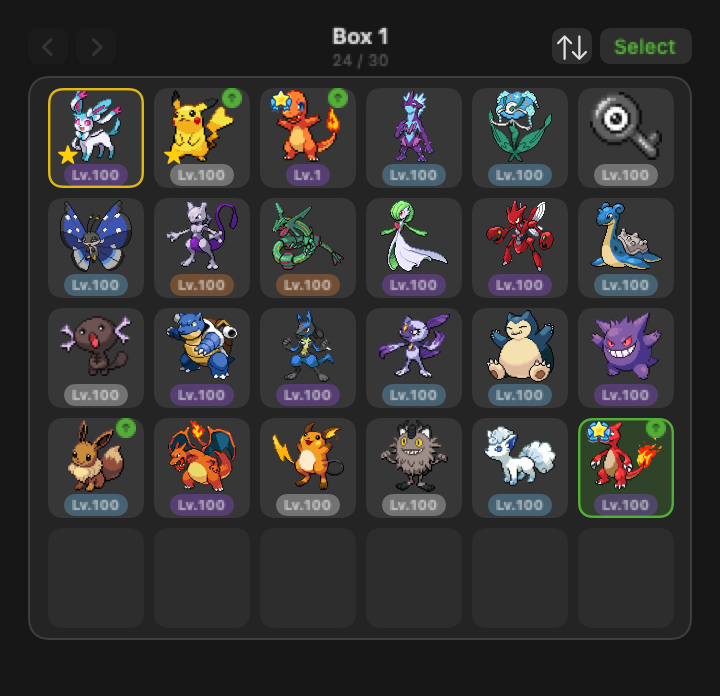
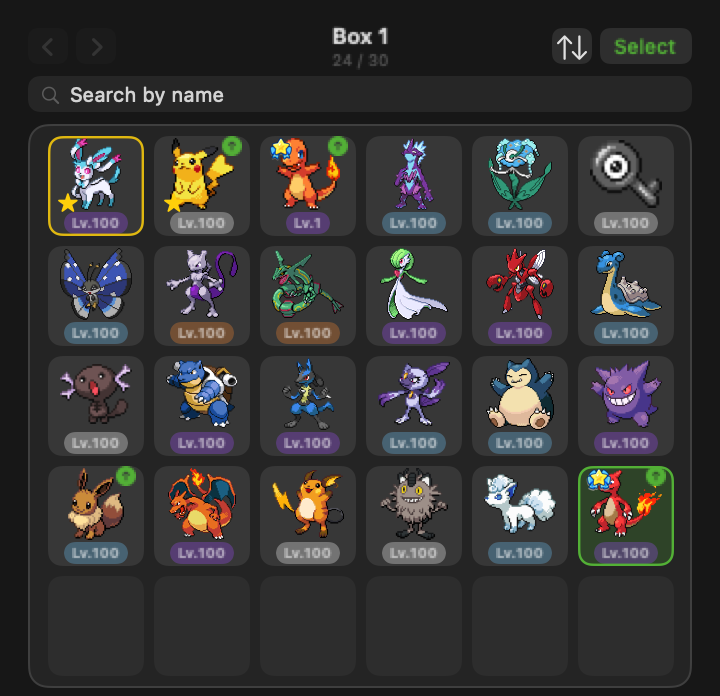
feat: search the Box by name
Finding one Pokémon in a full Box meant paging through thirty-slot pages
by eye. A search field now filters what the grid shows.

It matches the name the cell actually displays, so the form and region
prefixes come along — typing Galar brings up that whole set. Korean
initial consonants work too: ㄴㅇ finds 나옹. That mode turns on only when
the query is entirely consonant jamo, which keeps the rule predictable;
a mixed query stays a plain substring match. The species number matches
as well, which also covers the window where a name has not loaded yet and
the cell reads #25.

A disguised Ditto is not findable by the species it pretends to be. Its
cell shows ??? and so does the search, because the filter matches on the
displayed name rather than the underlying species. That falls out of the
design, but a test pins it — otherwise someone could reasonably decide to
match the real species and quietly leak the surprise.

Changing the query clears the bulk selection. Without that, a Pokémon
picked before the search stays picked while hidden, and a release could
carry off something not on screen — the one irreversible action here, so
what you see has to be what you send.

Searching is a view filter and never touches the store, unlike tidying,
which really does reorder the box.

Screenshots regenerated for the three Box captures.

Changed region(s): [[0.0611, 0.1207, 0.9472, 0.8147], [0.9472, 0.9052, 0.9778, 0.9353], [0.0306, 0.9052, 0.0611, 0.9353]]

diff --git a/Tests/PokeDexBarTests/BoxSearchTests.swift b/Tests/PokeDexBarTests/BoxSearchTests.swift
@@ -1,0 +1,126 @@
+import XCTest
+@testable import PokeDexBar
+
+/// 박스 이름 검색 — 판정은 순수 함수라 직접 물어본다.
+final class BoxSearchTests: XCTestCase {
+
+    // MARK: 부분 일치
+
+    func testAPartOfTheNameFinds() {
+        XCTAssertTrue(BoxSearch.matches(query: "나옹", name: "나옹", speciesID: 52))
+        XCTAssertTrue(BoxSearch.matches(query: "옹", name: "나옹", speciesID: 52))
+        XCTAssertFalse(BoxSearch.matches(query: "피카", name: "나옹", speciesID: 52))
+    }
+
+    /// **화면에 보이는 그 이름에 맞춘다** — 폼·지방 접두사가 붙은 채로. "갈라르"만 쳐도 그 무리가 다 나온다.
+    func testTheFormAndRegionPrefixAreSearchable() {
+        XCTAssertTrue(BoxSearch.matches(query: "갈라르", name: "갈라르 나옹", speciesID: 52))
+        XCTAssertTrue(BoxSearch.matches(query: "메가", name: "메가 거북왕", speciesID: 9))
+    }
+
+    func testEnglishIgnoresCase() {
+        XCTAssertTrue(BoxSearch.matches(query: "pika", name: "Pikachu", speciesID: 25))
+        XCTAssertTrue(BoxSearch.matches(query: "PIKA", name: "Pikachu", speciesID: 25))
+    }
+
+    /// 빈 질의는 아무것도 안 거른다 — 검색을 지우면 박스가 그대로 돌아와야 한다.
+    func testAnEmptyQueryPassesEverything() {
+        XCTAssertTrue(BoxSearch.matches(query: "", name: "나옹", speciesID: 52))
+        XCTAssertTrue(BoxSearch.matches(query: "   ", name: "나옹", speciesID: 52))
+    }
+
+    // MARK: 초성
+
+    /// "ㄴㅇ" → 나옹. 한국어 사용자가 당연히 기대하는 동작이다.
+    func testInitialConsonantsFind() {
+        XCTAssertTrue(BoxSearch.matches(query: "ㄴㅇ", name: "나옹", speciesID: 52))
+        XCTAssertTrue(BoxSearch.matches(query: "ㄱㅂㅇ", name: "거북왕", speciesID: 9))
+        XCTAssertTrue(BoxSearch.matches(query: "ㅂㅇ", name: "거북왕", speciesID: 9), "가운데부터도 맞아야 한다")
+        XCTAssertFalse(BoxSearch.matches(query: "ㄱㅂㅇ", name: "나옹", speciesID: 52))
+    }
+
+    func testInitialsAreExtractedFromEverySyllable() {
+        XCTAssertEqual(BoxSearch.initials(of: "나옹"), "ㄴㅇ")
+        XCTAssertEqual(BoxSearch.initials(of: "거북왕"), "ㄱㅂㅇ")
+        XCTAssertEqual(BoxSearch.initials(of: "갈라르 나옹"), "ㄱㄹㄹ ㄴㅇ")
+        // 한글이 아닌 글자는 그대로 남는다 — 섞인 이름에서 자리가 밀리지 않게.
+        XCTAssertEqual(BoxSearch.initials(of: "Pikachu"), "Pikachu")
+    }
+
+    /// **자음만인 질의일 때만** 초성 모드다. 규칙이 예측 가능해야 한다 — 섞인 질의는 일반 매치다.
+    func testOnlyAnAllConsonantQueryUsesInitials() {
+        XCTAssertTrue(BoxSearch.isInitialQuery("ㄴㅇ"))
+        XCTAssertTrue(BoxSearch.isInitialQuery("ㄱ"))
+        XCTAssertFalse(BoxSearch.isInitialQuery("나옹"))
+        XCTAssertFalse(BoxSearch.isInitialQuery("ㄴ옹"))
+        XCTAssertFalse(BoxSearch.isInitialQuery("pika"))
+        XCTAssertFalse(BoxSearch.isInitialQuery(""))
+    }
+
+    /// 모음 자모는 초성이 아니다 — "ㅏ" 로 초성 검색이 열리면 안 된다.
+    func testVowelJamoIsNotAnInitialQuery() {
+        XCTAssertFalse(BoxSearch.isInitialQuery("ㅏ"))
+        XCTAssertFalse(BoxSearch.isInitialQuery("ㅗㅜ"))
+    }
+
+    // MARK: 번호
+
+    func testTheSpeciesNumberFinds() {
+        XCTAssertTrue(BoxSearch.matches(query: "25", name: "피카츄", speciesID: 25))
+        // 이름을 아직 못 받아 "#25" 로 떠 있는 동안에도 같은 질의가 맞는다.
+        XCTAssertTrue(BoxSearch.matches(query: "25", name: "#25", speciesID: 25))
+        XCTAssertFalse(BoxSearch.matches(query: "26", name: "피카츄", speciesID: 25))
+    }
+
+    // MARK: 위장
+
+    /// **위장한 메타몽이 위장한 종 이름으로 찾히면 정체가 검색창으로 샌다.** 화면이 "???" 를
+    /// 보여주는 동안에는 검색도 "???" 로만 걸려야 한다. 이름 판정이 `displayName` 을 그대로
+    /// 받으므로 이 성질은 공짜로 따라오지만, 누가 "종 이름으로도 찾게 하자"고 고칠 수 있어 못 박는다.
+    func testADisguisedDittoIsNotFoundByTheSpeciesItPretendsToBe() {
+        let shown = Individual.unknownName
+        XCTAssertFalse(BoxSearch.matches(query: "캐터피", name: shown, speciesID: 10))
+        XCTAssertFalse(BoxSearch.matches(query: "ㅋㅌㅍ", name: shown, speciesID: 10))
+        XCTAssertTrue(BoxSearch.matches(query: shown, name: shown, speciesID: 10))
+    }
+
+    // MARK: 화면 배선
+
+    /// **검색을 바꾸면 담아 둔 선택을 비운다.** 안 그러면 검색으로 가려진 개체가 담긴 채로 남아,
+    /// 화면에 보이지도 않는 아이가 일괄 보내기에 딸려 나간다 — 방출은 되돌릴 수 없는 동작이라
+    /// "보이는 것이 곧 보낼 것"이 지켜져야 한다.
+    ///
+    /// `@State` 의 `.onChange` 배선이라 xctest 로 재현이 안 된다 — 소스에서 호출 존재를 본다
+    /// (`testTheBackfillIsCalledFromAppLaunchNotOnlyFromAView` 와 같은 방식).
+    func testChangingTheQueryClearsTheBulkSelection() throws {
+        let url = URL(fileURLWithPath: #filePath)
+            .deletingLastPathComponent().deletingLastPathComponent().deletingLastPathComponent()
+            .appendingPathComponent("Sources/PokeDexBar/UI/BoxTabView.swift")
+        let source = try String(contentsOf: url, encoding: .utf8)
+        // 주석을 먼저 걷어낸다 — 통짜 검색은 바로 위 주석의 같은 낱말에 걸려, 코드를 지워도 통과한다.
+        let code = source.split(separator: "\n")
+            .map { $0.contains("//") ? String($0[..<$0.range(of: "//")!.lowerBound]) : String($0) }
+            .joined(separator: "\n")
+        let onChange = try XCTUnwrap(code.range(of: "onChange(of: query)"))
+        let body = String(code[onChange.upperBound...].prefix(200))
+        XCTAssertTrue(body.contains("picked = []"), "검색이 바뀌어도 선택이 안 비워진다")
+        XCTAssertTrue(body.contains("bulkStep = 0"), "확인 단계가 안 되돌려진다")
+    }
+
+    /// 검색은 **보기일 뿐이다** — 저장소를 재배치하는 `sortBox` 와 달리 박스 자체를 안 건드린다.
+    func testSearchDoesNotTouchTheStore() throws {
+        let url = URL(fileURLWithPath: #filePath)
+            .deletingLastPathComponent().deletingLastPathComponent().deletingLastPathComponent()
+            .appendingPathComponent("Sources/PokeDexBar/UI/BoxTabView.swift")
+        let code = try String(contentsOf: url, encoding: .utf8)
+        let visible = try XCTUnwrap(code.range(of: "private var visibleBox"))
+        let body = String(code[visible.upperBound...].prefix(400))
+        XCTAssertFalse(body.contains("store.mutate"), "검색이 저장소를 고친다")
+        XCTAssertFalse(body.contains("sortBox"), "검색이 박스를 재배치한다")
+    }
+
+    /// 대조군 — 위장이 아닌 개체는 종 이름으로 정상적으로 찾힌다.
+    func testAnUndisguisedPokemonIsFoundNormally() {
+        XCTAssertTrue(BoxSearch.matches(query: "캐터피", name: "캐터피", speciesID: 10))
+    }
+}

diff --git a/Sources/PokeDexBar/UI/BoxTabView.swift b/Sources/PokeDexBar/UI/BoxTabView.swift
@@ -128,6 +128,9 @@ struct BoxTabView: View {
     private let columns = Array(repeating: GridItem(.fixed(48), spacing: 5),
                                 count: BoxTabView.columnCount)
     @State private var page = 0
+    /// 이름 검색 질의. **보기일 뿐이라 저장소를 안 건드린다** — 정리(`sortBox`)는 박스를 실제로
+    /// 재배치하지만 검색은 보고 있는 동안만 거른다.
+    @State private var query = ""
     /// 선택 모드인가. 모드 밖에서는 칸을 누르면 지금처럼 상세로 간다 —
     /// **되돌릴 수 없는 조작으로 가는 문은 눌러서 연다.**
     @State private var selecting = false
@@ -177,7 +180,29 @@ struct BoxTabView: View {
         .frame(height: selecting ? Self.selectingHeight : Self.baseHeight, alignment: .top)
     }
 
-    private var pageCount: Int { Self.pageCount(forBoxCount: store.state.box.count) }
+    /// 검색에 걸린 개체들. 질의가 비면 박스 전체다.
+    ///
+    /// **맞추는 값은 화면에 보이는 그 이름**(`displayName`)이다 — 종 이름이 아니라 폼·지방
+    /// 접두사가 붙은 것. 그래서 "갈라르"만 쳐도 그 무리가 걸리고, 위장 중인 메타몽은 "???" 라
+    /// 위장한 종 이름으로 안 걸린다(걸리면 정체가 검색창으로 샌다).
+    private var visibleBox: [Individual] {
+        guard !query.trimmingCharacters(in: .whitespaces).isEmpty else { return store.state.box }
+        return store.state.box.filter {
+            BoxSearch.matches(query: query, name: displayName($0), speciesID: $0.displaySpeciesID)
+        }
+    }
+
+    private func displayName(_ individual: Individual) -> String {
+        individual.displayName(speciesName: Self.speciesName(individual, in: lines, store.language),
+                               store.language)
+    }
+
+    /// 검색했는데 하나도 안 걸린 상태. 박스가 원래 빈 것과는 다르다.
+    private var noSearchResults: Bool {
+        !query.trimmingCharacters(in: .whitespaces).isEmpty && visibleBox.isEmpty
+    }
+
+    private var pageCount: Int { Self.pageCount(forBoxCount: visibleBox.count) }
     private var currentPage: Int { Self.clampedPage(page, pageCount: pageCount) }
 
     /// 이 상자에 놓인 개체들 — 빈 자리는 nil. 고정 30칸이라 뒤가 비어도 칸은 그린다.
@@ -186,7 +211,7 @@ struct BoxTabView: View {
     /// `store.sortBox(_:)` 로 저장소 자체를 재배치하는 일회성 명령이고, 화면은 그 결과를 그대로
     /// 비출 뿐이다. 여기서 또 정렬하면 정리해도 화면이 안 바뀐 것처럼 보인다.
     private var slots: [Individual?] {
-        let all = store.state.box
+        let all = visibleBox
         let start = currentPage * Self.pageSize
         return (0..<Self.pageSize).map { offset in
             let index = start + offset
@@ -194,9 +219,43 @@ struct BoxTabView: View {
         }
     }
 
+    /// 이름 검색 한 줄. 질의가 바뀌면 **담아 둔 선택을 비운다** — 안 그러면 검색으로 가려진
+    /// 개체가 담긴 채로 남아, 보이지도 않는 아이가 일괄 보내기에 딸려 나간다.
+    private var searchField: some View {
+        HStack(spacing: 4) {
+            Image(systemName: "magnifyingglass")
+                .font(.system(size: 9)).foregroundStyle(.tertiary)
+            TextField(l.boxSearchPlaceholder, text: $query)
+                .textFieldStyle(.plain)
+                .font(.system(size: 10))
+                .onChange(of: query) { _, _ in
+                    picked = []
+                    bulkStep = 0
+                }
+            if !query.isEmpty {
+                Button { query = "" } label: {
+                    Image(systemName: "xmark.circle.fill")
+                        .font(.system(size: 9)).foregroundStyle(.tertiary)
+                }
+                .buttonStyle(.plain)
+            }
+        }
+        .padding(.horizontal, 6).padding(.vertical, 3)
+        .background(Color.secondary.opacity(0.12), in: RoundedRectangle(cornerRadius: 6))
+    }
+
     private var grid: some View {
         VStack(spacing: 6) {
             boxHeader
+            searchField
+            // 검색이 안 맞은 것과 박스가 빈 것은 다른 상태다 — 같은 빈 격자를 보여주면 왜 비었는지
+            // 모른다. 격자는 아예 접는다: 빈 칸 서른 개 아래에 문구만 두면 팝오버만 길어진다.
+            if noSearchResults {
+                Text(l.boxSearchNoResults(query.trimmingCharacters(in: .whitespaces)))
+                    .font(.system(size: 10)).foregroundStyle(.secondary)
+                    .frame(maxWidth: .infinity, alignment: .center)
+                    .padding(.vertical, 40)
+            } else {
             LazyVGrid(columns: columns, spacing: 5) {
                 ForEach(Array(slots.enumerated()), id: \.offset) { _, individual in
                     if let individual {
@@ -237,6 +296,7 @@ struct BoxTabView: View {
             .overlay {
                 RoundedRectangle(cornerRadius: 10)
                     .strokeBorder(Color.secondary.opacity(0.22), lineWidth: 1)
+            }
             }
             if selecting { bulkBar }
             if store.state.box.isEmpty {

diff --git a/Sources/PokeDexBar/Player/BoxSearch.swift b/Sources/PokeDexBar/Player/BoxSearch.swift
@@ -1,0 +1,60 @@
+import Foundation
+
+/// 박스 이름 검색의 판정. **순수 함수라 테스트가 직접 물어본다** — 뷰 안에 묻어 두면
+/// "초성이 맞는가"·"위장이 새지 않는가"를 물어볼 수가 없다.
+///
+/// 검색은 **보기일 뿐이다.** 정리(`PlayerStore.sortBox`)는 저장소를 실제로 재배치하는 명령이지만
+/// 검색은 보고 있는 동안만 거른다 — 그래서 여기에는 상태가 없다.
+enum BoxSearch {
+    /// 한글 초성 19자. 순서가 곧 초성 인덱스다(유니코드 한글 음절의 정의).
+    private static let choseong = Array("ㄱㄲㄴㄷㄸㄹㅁㅂㅃㅅㅆㅇㅈㅉㅊㅋㅌㅍㅎ")
+    private static let syllableBase: UInt32 = 0xAC00
+    private static let syllableEnd: UInt32 = 0xD7A3
+    /// 한 초성이 담당하는 음절 수 — 중성 21 × 종성 28.
+    private static let syllablesPerChoseong: UInt32 = 588
+
+    /// 이 개체가 질의에 걸리나.
+    ///
+    /// - Parameter name: **화면에 보이는 그 이름**(`Individual.displayName`). 종 이름이 아니라
+    ///   폼·지방 접두사가 붙은 표시 이름이라, "갈라르"만 쳐도 그 무리가 걸린다. 위장 중인
+    ///   메타몽은 이 값이 "???" 라 **위장한 종 이름으로는 안 걸린다** — 걸리면 정체가 검색창으로 샌다.
+    static func matches(query: String, name: String, speciesID: Int) -> Bool {
+        let trimmed = query.trimmingCharacters(in: .whitespaces)
+        guard !trimmed.isEmpty else { return true }
+        if isInitialQuery(trimmed) {
+            return initials(of: name).contains(trimmed)
+        }
+        if contains(name, trimmed) { return true }
+        // 번호로도 찾는다 — 이름을 아직 못 받아 "#25" 로 떠 있는 동안에도, 받은 뒤에도 같은
+        // 질의가 통하도록. (이름이 "#25" 일 때는 위 이름 매치로도 걸리지만, 받은 뒤에는 여기뿐이다.)
+        return String(speciesID).contains(trimmed)
+    }
+
+    /// 질의가 **전부 초성 자모**인가. 그럴 때만 초성 모드로 간다 — 섞인 질의("ㄴ옹")까지 받으면
+    /// 규칙이 예측 불가능해지고, 실제로 그렇게 치는 사람도 없다.
+    ///
+    /// 모음 자모(ㅏ·ㅗ)는 초성이 아니다. `choseong` 에 없으므로 자동으로 걸러진다.
+    static func isInitialQuery(_ query: String) -> Bool {
+        let trimmed = query.trimmingCharacters(in: .whitespaces)
+        guard !trimmed.isEmpty else { return false }
+        return trimmed.allSatisfy { choseong.contains($0) }
+    }
+
+    /// 한글 음절을 초성으로 바꾼 문자열. **한글이 아닌 글자는 그대로 남긴다** — 지우면 섞인
+    /// 이름("갈라르 나옹")에서 자리가 밀려 엉뚱한 곳이 맞는다.
+    static func initials(of text: String) -> String {
+        String(text.map { character -> Character in
+            guard let scalar = character.unicodeScalars.first,
+                  character.unicodeScalars.count == 1,
+                  scalar.value >= syllableBase, scalar.value <= syllableEnd else { return character }
+            let index = Int((scalar.value - syllableBase) / syllablesPerChoseong)
+            return choseong[index]
+        })
+    }
+
+    /// 대소문자·발음기호를 무시한 부분 일치. 영어 이름(Pikachu/PIKA)과 프랑스어계 이름
+    /// (Flabébé)을 같이 받아 준다.
+    private static func contains(_ haystack: String, _ needle: String) -> Bool {
+        haystack.range(of: needle, options: [.caseInsensitive, .diacriticInsensitive]) != nil
+    }
+}

diff --git a/Sources/PokeDexBar/Core/Localization.swift b/Sources/PokeDexBar/Core/Localization.swift
@@ -256,6 +256,12 @@ struct L {
     func boxTitle(_ number: Int) -> String { t("박스 \(number)", "Box \(number)", "ボックス \(number)") }
     func boxSlotUsage(_ used: Int, _ total: Int) -> String { "\(used) / \(total)" }
     /// 박스 헤더의 정렬 메뉴. **상태가 아니라 명령**이라 "정렬 기준"이 아니라 "정리"라고 부른다.
+    var boxSearchPlaceholder: String { t("이름 검색", "Search by name", "なまえでけんさく") }
+    /// 검색이 안 맞은 것과 박스가 빈 것은 다른 상태다 — 같은 화면을 보여주면 왜 비었는지 모른다.
+    func boxSearchNoResults(_ query: String) -> String {
+        t("\"\(query)\" 와 맞는 아이가 없어요", "Nothing matches \"\(query)\"",
+          "\"\(query)\" に合う子がいません")
+    }
     var boxSortMenu: String { t("정리", "Tidy", "せいり") }
     var detailNature: String { t("성격", "Nature", "せいかく") }
     // MARK: 별표 — 즐겨찾기 겸 보호(포켓몬 GO 규칙)
